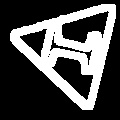
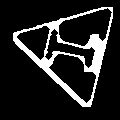
Updated Combined Proc, minor fixes

Changed region(s): [[0.075, 0.025, 0.975, 0.925]]

diff --git a/CombinedProc.py b/CombinedProc.py
@@ -9,12 +9,14 @@ except ImportError:
     from PIL import Image
 import pytesseract
 import imutils
+
+
 #Kernel for dilation. Can fiddle with it but doesn't really seem to affect end result much
 kernel = np.ones((4,4),np.uint8)
 
 #If you are on windows and you properly set up your repository in Documents\MUASImaging all you need to change is peter to your name
-initialImage = cv2.imread('C:\Users\peter\Documents\MUASImaging\TestCases\Test2.jpg') #pulls image
-imageNumber = 2 # Modify for file output
+initialImage = cv2.imread('C:\Users\peter\Documents\MUASImaging\TestCases\Test5.jpg') #pulls image
+imageNumber = 5 # Modify for file output
 
 initialImage = cv2.medianBlur(initialImage,5) # Blurs Image in Preparation for Proc
 initialImage = cv2.morphologyEx(initialImage,cv2.MORPH_OPEN,kernel) # Morph_Open does what you want it to do
@@ -32,10 +34,15 @@ cannyImage = cv2.Canny(cannyImage,150,350,True)
 cannyImage, contours, hierarchy = cv2.findContours(cv2.dilate(cannyImage,kernel,iterations = 2), cv2.RETR_TREE, cv2.CHAIN_APPROX_SIMPLE)
 #Counter sort of deprecated but useful for debugging - calculate how many contours you successfully logged
 counter = 0
+
+cv2.imwrite('C:\Users\peter\Documents\MUASImaging\Intermediates\Contours.jpg', cv2.drawContours(cannyImage, contours, -1, (0,255,0), 3))
+
 resultingContours = []
+resulCont = []
 PrevX = -420
 PrevY = -420
 #Iterates through contour list and creates files with cropped images.
+
 for num in range(0,len(contours)):
 
     #mandatory filter or else runtime error - short contours dont work with ellipse function
@@ -59,7 +66,7 @@ for num in range(0,len(contours)):
                     solidity = float(area)/hull_area
                     #some really squiggly shapes won't be accepted, unfortunately not a catch em all type filter
                     if solidity > .7:
-
+                        
                         counter = counter + 1
                         #This following constant should depend on elevation!
                         elevationConstant = 60                        
@@ -69,12 +76,14 @@ for num in range(0,len(contours)):
                         cropped, tempconts, hierarchtemp = cv2.findContours(cropped, cv2.RETR_TREE, cv2.CHAIN_APPROX_SIMPLE)
                         #filters out trees basically. if there's a lot of contours in the area, says image is bad. perhaps worth experimenting with different image sizes
                         if ((len(tempconts) < 12)):
-
+                            print("foundd")               
                             PrevX = X
                             PrevY = Y
-                            resultingContours = resultingContours + [cropped]
-                            cv2.imwrite('C:\Users\peter\Documents\MUASImaging\Output\OldCropped'+str(counter)+'from'+ str(imageNumber)+'.jpg',oldCropped)
-                            cv2.imwrite('C:\Users\peter\Documents\MUASImaging\Output\Cropped'+str(counter)+'from'+ str(imageNumber)+'.jpg',cropped)
+                            print oldCropped.size
+                            cv2.imwrite('C:\Users\peter\Documents\MUASImaging\Output\OldyCropped'+str(counter)+'from'+ str(imageNumber)+'.jpg',oldCropped)
+                            cv2.imwrite('C:\Users\peter\Documents\MUASImaging\Output\Croppedy'+str(counter)+'from'+ str(imageNumber)+'.jpg',cropped)
+
+
 
 
 
@@ -83,7 +92,7 @@ for num in range(0,len(contours)):
 pytesseract.pytesseract.tesseract_cmd = 'C:\\Program Files (x86)\\Tesseract-OCR\\tesseract.exe'
 
 #This is the initial image pull
-initialImage = cv2.imread('C:\Users\peter\Documents\MUASImaging\Output\OldCropped1from2.jpg') #pulls imageZ = initialImage.reshape((-1,3))
+initialImage = cv2.imread('C:\Users\peter\Documents\MUASImaging\Output\OldyCropped2from5.jpg') #pulls imageZ = initialImage.reshape((-1,3))
 
 ##############PART ONE################
 ###########SHAPE RECOGNITION##########
@@ -99,6 +108,7 @@ ret, label, center = cv2.kmeans(Z,K,None,criteria,10,cv2.KMEANS_RANDOM_CENTERS)
 center = np.uint8(center)
 res = center [label.flatten()]
 dualColor = res.reshape((initialImage.shape))
+cv2.imwrite('C:\Users\peter\Documents\MUASImaging\Intermediates\AwesomeDual.jpg',dualColor)
 
 #Begin color formatting
 #Gets the color of the pixel in the top-left corner
@@ -110,7 +120,7 @@ j = 0
 for row in dualColor:
     for row2 in row:
         if row2[2] == a:
-            dualColor[i][j] = [255,255,255]
+            dualColor[i][j] = [200,200,200]
         else:
             dualColor[i][j] = [0,0,0]
         j += 1
@@ -124,8 +134,8 @@ dualColor = cv2.erode(dualColor, kernel, iterations = 1)
 #Stores the mask for future use.
 cv2.imwrite('C:\Users\peter\Documents\MUASImaging\Intermediates\Mask.jpg',dualColor)
 #Get shape
-#Ideally you would loop through them hehe
-compareTo = cv2.imread('C:\Users\peter\Documents\MUASImaging\Shapes\quarter_circle.png')
+#Ideally you would loop through them
+compareTo = cv2.imread('C:\Users\peter\Documents\MUASImaging\Shapes\circle.png')
 #################TODO: MAKE A FILE WITH CONTOURS PREPARED AS ARRAYS#############
 dualColor = cv2.cvtColor(dualColor,cv2.COLOR_BGR2GRAY)
 compareTo = cv2.cvtColor(compareTo,cv2.COLOR_BGR2GRAY)
@@ -135,10 +145,11 @@ ret,compareTo = cv2.threshold(compareTo,127,255,cv2.THRESH_BINARY_INV)
 
 #Contours Are Made - ideally only one would be made
 ignorethis, contours, hierarchy = cv2.findContours(dualColor, cv2.RETR_TREE, cv2.CHAIN_APPROX_SIMPLE)
+print len(contours)
 cnt1 = contours[1]
 ignorethis, contours, hierarchy = cv2.findContours(compareTo, cv2.RETR_TREE, cv2.CHAIN_APPROX_SIMPLE)
 cnt2 = contours[1]
-
+print len(contours)
 #Contour Comparison Function:
 Value = cv2.matchShapes(cnt1,cnt2,1,0.0)
 print "how matchy shape"
@@ -148,8 +159,8 @@ print Value
 
 ################PART TWO################
 ##########CHARACTER CLEANUP FOR TESSERACT#############
-initialImage = cv2.imread('C:\Users\peter\Documents\MUASImaging\Output\OldCropped1from2.jpg')
-mask = cv2.imread('C:\Users\peter\Documents\MUASImaging\Intermediates\Mask.jpg')
+initialImage = cv2.imread('C:\Users\peter\Documents\MUASImaging\Output\OldyCropped2from5.jpg')
+mask = cv2.imread('C:\Users\peter\Documents\MUASImaging\Intermediates\Mask.jpg')    
 
 kernel = np.ones((5,5),np.uint8)
 mask = cv2.dilate(mask,kernel,iterations = 1)
@@ -168,11 +179,11 @@ ret, label, center = cv2.kmeans(Z,K,None,criteria,10,cv2.KMEANS_RANDOM_CENTERS)
 center = np.uint8(center)
 res = center [label.flatten()]
 triColor = res.reshape((masked.shape))
-
+cv2.imwrite('C:\Users\peter\Documents\MUASImaging\Intermediates\ColoredTripleColor.jpg',triColor)
 #Creates a histogram
 forHistogram = cv2.cvtColor(triColor, cv2.COLOR_BGR2GRAY)
 histo = plt.hist(forHistogram.ravel(),256,[0,256])
-print (plt.hist(forHistogram.ravel(),256,[0,256]))
+
 #Identifies Least Common Color (in greys)
 maxi = 10000
 indexi = 0
@@ -184,14 +195,14 @@ for i in range(0,len(histo[0])):
             maxi = b
 
 triColor = cv2.cvtColor(triColor,cv2.COLOR_BGR2GRAY)
-
+cv2.imwrite('C:\Users\peter\Documents\MUASImaging\Intermediates\Awesome.jpg',triColor)
 #Makes Everything but center letter white, which in turn turns black.
 i=0
 j=0
 for row in triColor:
     for row2 in row: 
         if row2 != indexi :
-            triColor[i][j] = 255
+            triColor[i][j] = 200
         else:
             triColor[i][j]=0
         j += 1
@@ -205,12 +216,12 @@ kernel = np.ones((2,2),np.uint8)
 
 triColor = cv2.dilate(triColor,kernel,iterations = 1)
 
-##triColor = imutils.rotate_bound(triColor, 270)
-##triColor = imutils.resize(triColor, 500)
-##triColor = cv2.GaussianBlur(triColor,(9,9),0)
+#triColor = imutils.rotate_bound(triColor, 270)
+#riColor = imutils.resize(triColor, 500)
+#triColor = cv2.GaussianBlur(triColor,(9,9),0)
 cv2.imwrite('C:\Users\peter\Documents\MUASImaging\Intermediates\OnlyLetters.jpg',triColor)
-print "which alphanumeric i found via tesseracto"
-print(pytesseract.image_to_string(Image.open('C:\Users\peter\Documents\MUASImaging\Intermediates\OnlyLetters.jpg'), config='--psm 10'))
+
+
 
 for letter in ['A','B','C','D','E','F','G','H','I','J','K','L','M','N','O','P','Q','R','S','T','U','V','W','X','Y','Z']:
     
@@ -230,7 +241,7 @@ for letter in ['A','B','C','D','E','F','G','H','I','J','K','L','M','N','O','P','
     print len(contours)
     cnt2 = contours[1]
     ret = cv2.matchShapes(cnt1,cnt2,1,0.0)
-    print "how matchy letter"+letter
+    print "How much does it match"+letter
     print ret
 
 

diff --git a/TestCharProc.py b/TestCharProc.py
@@ -4,7 +4,7 @@ from matplotlib import pyplot as plt
 import os
 
 triColor = cv2.imread('C:\Users\peter\Documents\MUASImaging\Intermediates\OnlyLetters.jpg')
-Base = cv2.imread('C:\Users\peter\Documents\MUASImaging\Letters\LetterE.png')
+Base = cv2.imread('C:\Users\peter\Documents\MUASImaging\Letters\LetterU.png')
 triColor = cv2.cvtColor(triColor,cv2.COLOR_BGR2GRAY)
 
 (thresh, triColor) = cv2.threshold(triColor, 128, 255, cv2.THRESH_BINARY | cv2.THRESH_OTSU)
